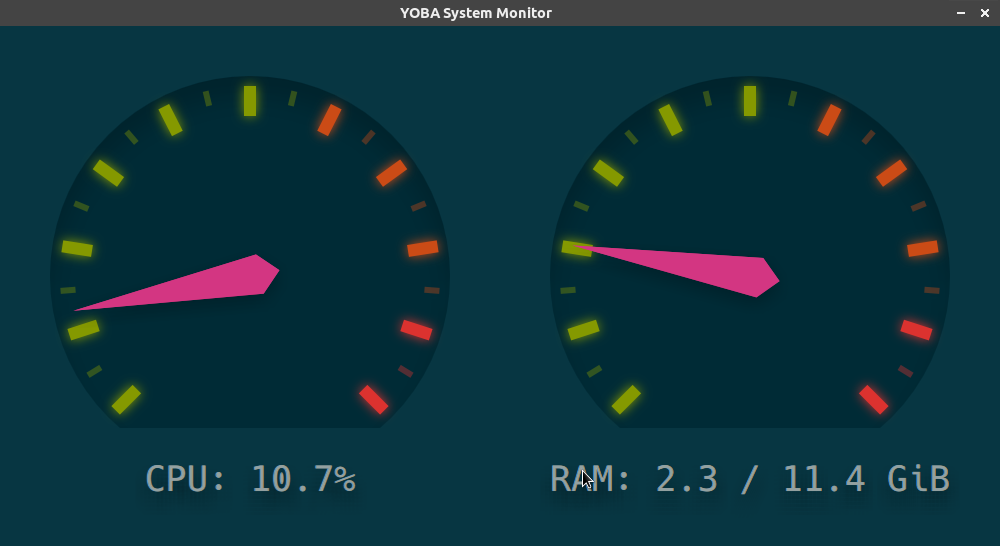
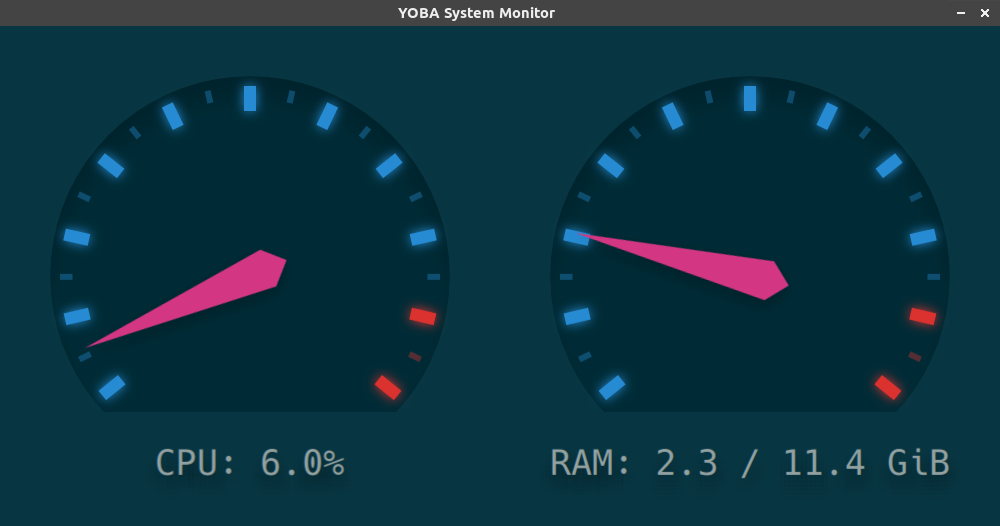
Redesign

diff --git a/src/DialGauge.qml b/src/DialGauge.qml
@@ -25,13 +25,10 @@ Canvas {
     property real value: 0.0
 
     width: size
-    height: size * 0.88
+    height: size * ((1 + Math.cos(startAngle * (Math.PI / 180))) / 2) + 10
 
-    property real markLength: 30
-    property real markOffset: 10
-
-    property real startAngle: 45 * (Math.PI / 180)
-    property real endAngle: 315 * (Math.PI / 180)
+    property real startAngle: 51
+    property real endAngle: 360 - startAngle
 
     clip: true
 
@@ -63,19 +60,21 @@ Canvas {
         ctx.translate(size / 2, size / 2);
         ctx.shadowBlur = 10;
 
+        let markLength = 25;
+        let markOffset = 10;
+
         let markStart = markOffset;
         let step = (endAngle - startAngle) / 20;
 
-        for (let i = startAngle, line = 0; i <= endAngle; i += step, line++) {
+        for (let line = 0; line <= 20; line++) {
+            let i = line * step + startAngle;
             let markEnd;
             let halfSize = size / 2;
 
-            if (line <= 11) {
-                ctx.strokeStyle = "#859900";
-            } else if (line > 17) {
-                ctx.strokeStyle = "#dc322f";
+            if (line <= 17) {
+                ctx.strokeStyle = "#268bd2";
             } else {
-                ctx.strokeStyle = "#cb4b16";
+                ctx.strokeStyle = "#dc322f";
             }
 
             if (line % 2 == 0) {
@@ -89,20 +88,19 @@ Canvas {
 
                 ctx.strokeStyle = "#60" + ctx.strokeStyle.substring(7, 1);
 
-                markEnd = markStart + markLength / 2
+                markEnd = markStart + markLength / 2;
             }
 
             ctx.beginPath();
             ctx.moveTo(
-                (-Math.sin(i) * (halfSize - markStart)),
-                ( Math.cos(i) * (halfSize - markStart))
+                (-Math.sin(i * (Math.PI / 180)) * (halfSize - markStart)),
+                ( Math.cos(i * (Math.PI / 180)) * (halfSize - markStart))
             );
 
             ctx.lineTo(
-                (-Math.sin(i) * (halfSize - markEnd)),
-                ( Math.cos(i) * (halfSize - markEnd))
+                (-Math.sin(i * (Math.PI / 180)) * (halfSize - markEnd)),
+                ( Math.cos(i * (Math.PI / 180)) * (halfSize - markEnd))
             );
-
             ctx.stroke();
         }
 
@@ -114,7 +112,7 @@ Canvas {
 
         anchors.fill: parent
 
-        property real angle: (value * (315 - 45)) - 180 + 45
+        property real angle: (value * (endAngle - startAngle)) - 180 + startAngle
 
         transform: Rotation {
             id: rotation
@@ -137,10 +135,10 @@ Canvas {
 
             ctx.beginPath();
 
-            ctx.moveTo( 0,      width + 10);
-            ctx.lineTo( width,  10);
+            ctx.moveTo( 0,      width + 20);
+            ctx.lineTo( width,  20);
             ctx.lineTo( 0,     -length);
-            ctx.lineTo(-width,  10);
+            ctx.lineTo(-width,  20);
 
             ctx.closePath();
 
@@ -152,7 +150,6 @@ Canvas {
 
         layer.enabled: true
         layer.effect: DropShadow {
-            id: shadow
             horizontalOffset: Math.sin(pointer.angle * (Math.PI / 180)) * 6
             verticalOffset: Math.cos(pointer.angle * (Math.PI / 180)) * 6
             radius: 12.0

diff --git a/src/main.qml b/src/main.qml
@@ -22,7 +22,7 @@ Window {
     id: root
 
     width: 1000
-    height: 520
+    height: 500
 
     maximumHeight: height
     maximumWidth: width
